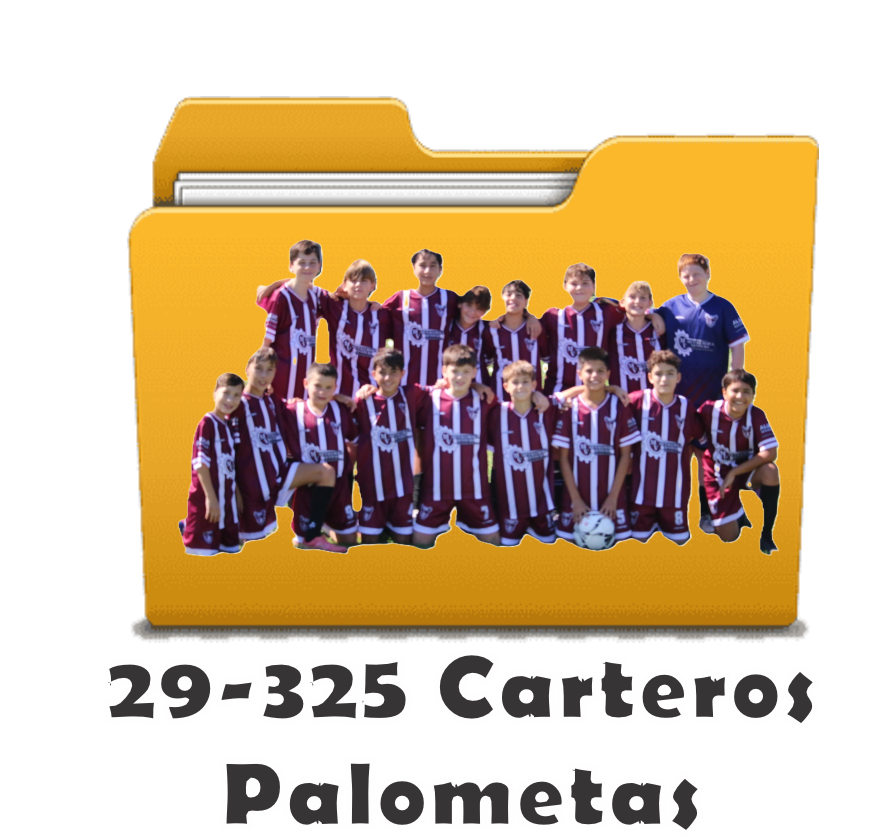
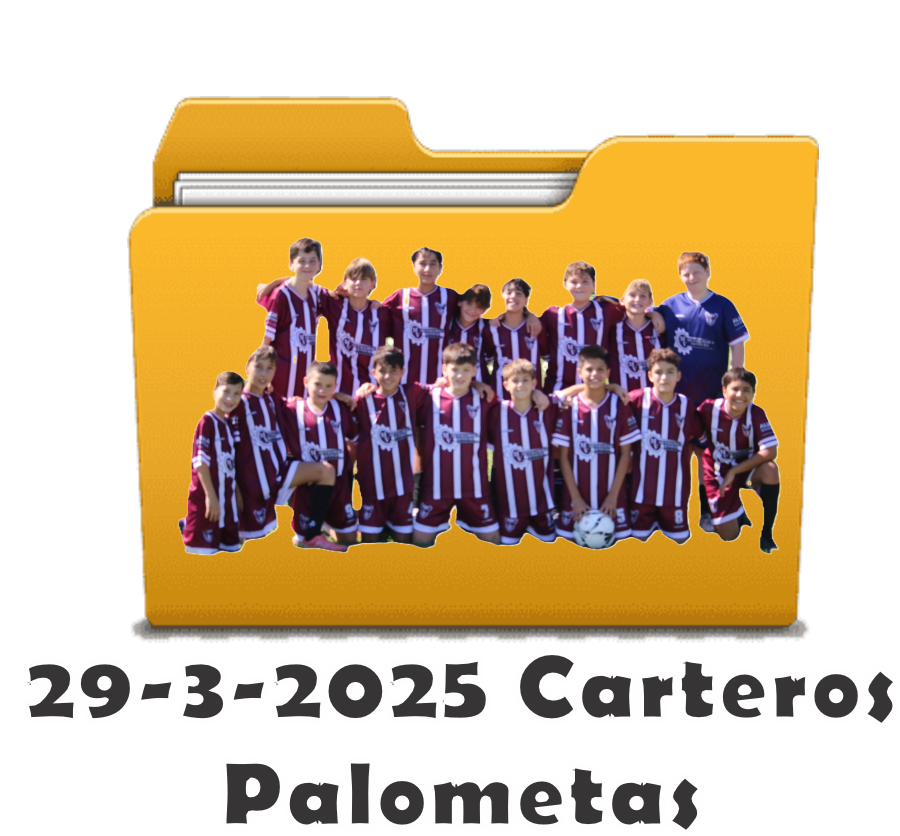
5-4-2025

diff --git a/2025.html b/2025.html
@@ -22,6 +22,6 @@ body {
 <p>&nbsp;</p>
 <p>&nbsp;</p>
 <p>&nbsp;</p>
-<p><a href="https://www.playbook.com/s/palometas/Y9gehsHmedhrpz4CCfbNoahX"><img src="Img/2025/carpeta 21-2-2025 Carteros -Palometas.png" width="160" height="140" alt=""/></a><a href="https://www.playbook.com/s/palometas/YMfakRZBBW6bGgeFSvhYEP6C"><img src="Img/2025/carpeta 29-3-2025 Carteros -Palometas.png" width="160" height="140" alt=""/></a><a href="https://www.playbook.com/s/palometas/VQ5pkthBs74uHY68R64rahDQ"><img src="Img/2025/carpeta 2-4-2025 Mercedes Palometas (Cat 2011).png" width="160" height="140" alt=""/></a><a href="https://www.playbook.com/s/palometas/nFYv3ZyAPkPvvFwu8XTNxo5x"></a><a href="2014.html" target="_blank"></a><a href="https://www.playbook.com/s/palometas/JX9oswHskYZoVyLiq7CzeKqu"><img src="Img/2025/carpeta Mercedes - Palometas 2-4-2025 (Cat 2012).png" width="160" height="140" alt=""/></a></p>
+<p><a href="https://www.playbook.com/s/palometas/Y9gehsHmedhrpz4CCfbNoahX"><img src="Img/2025/carpeta 21-2-2025 Carteros -Palometas.png" width="160" height="140" alt=""/></a><a href="https://www.playbook.com/s/palometas/YMfakRZBBW6bGgeFSvhYEP6C"><img src="Img/2025/carpeta 29-3-2025 Carteros -Palometas.png" width="160" height="140" alt=""/></a><a href="https://www.playbook.com/s/palometas/VQ5pkthBs74uHY68R64rahDQ"><img src="Img/2025/carpeta 2-4-2025 Mercedes Palometas (Cat 2011).png" width="160" height="140" alt=""/></a><a href="https://www.playbook.com/s/palometas/nFYv3ZyAPkPvvFwu8XTNxo5x"></a><a href="2014.html" target="_blank"></a><a href="https://www.playbook.com/s/palometas/JX9oswHskYZoVyLiq7CzeKqu"><img src="Img/2025/carpeta Mercedes - Palometas 2-4-2025 (Cat 2012).png" width="160" height="140" alt=""/></a><a href="https://www.playbook.com/s/palometas/yKYBrT6RQC2B8XYFkqozXdNR"><img src="Img/2025/carpeta Fronton - Palometas 5-4-2025 (Sub 12).png" width="143" height="140" alt=""/></a><a href="https://www.playbook.com/s/palometas/qFgGM2K2wbwX371xHe5hs8Sb"><img src="Img/2025/carpeta Fronton - Palometas 5-4-2025 (Categoria 2013).png" width="149" height="140" alt=""/></a></p>
 </body>
 </html>
